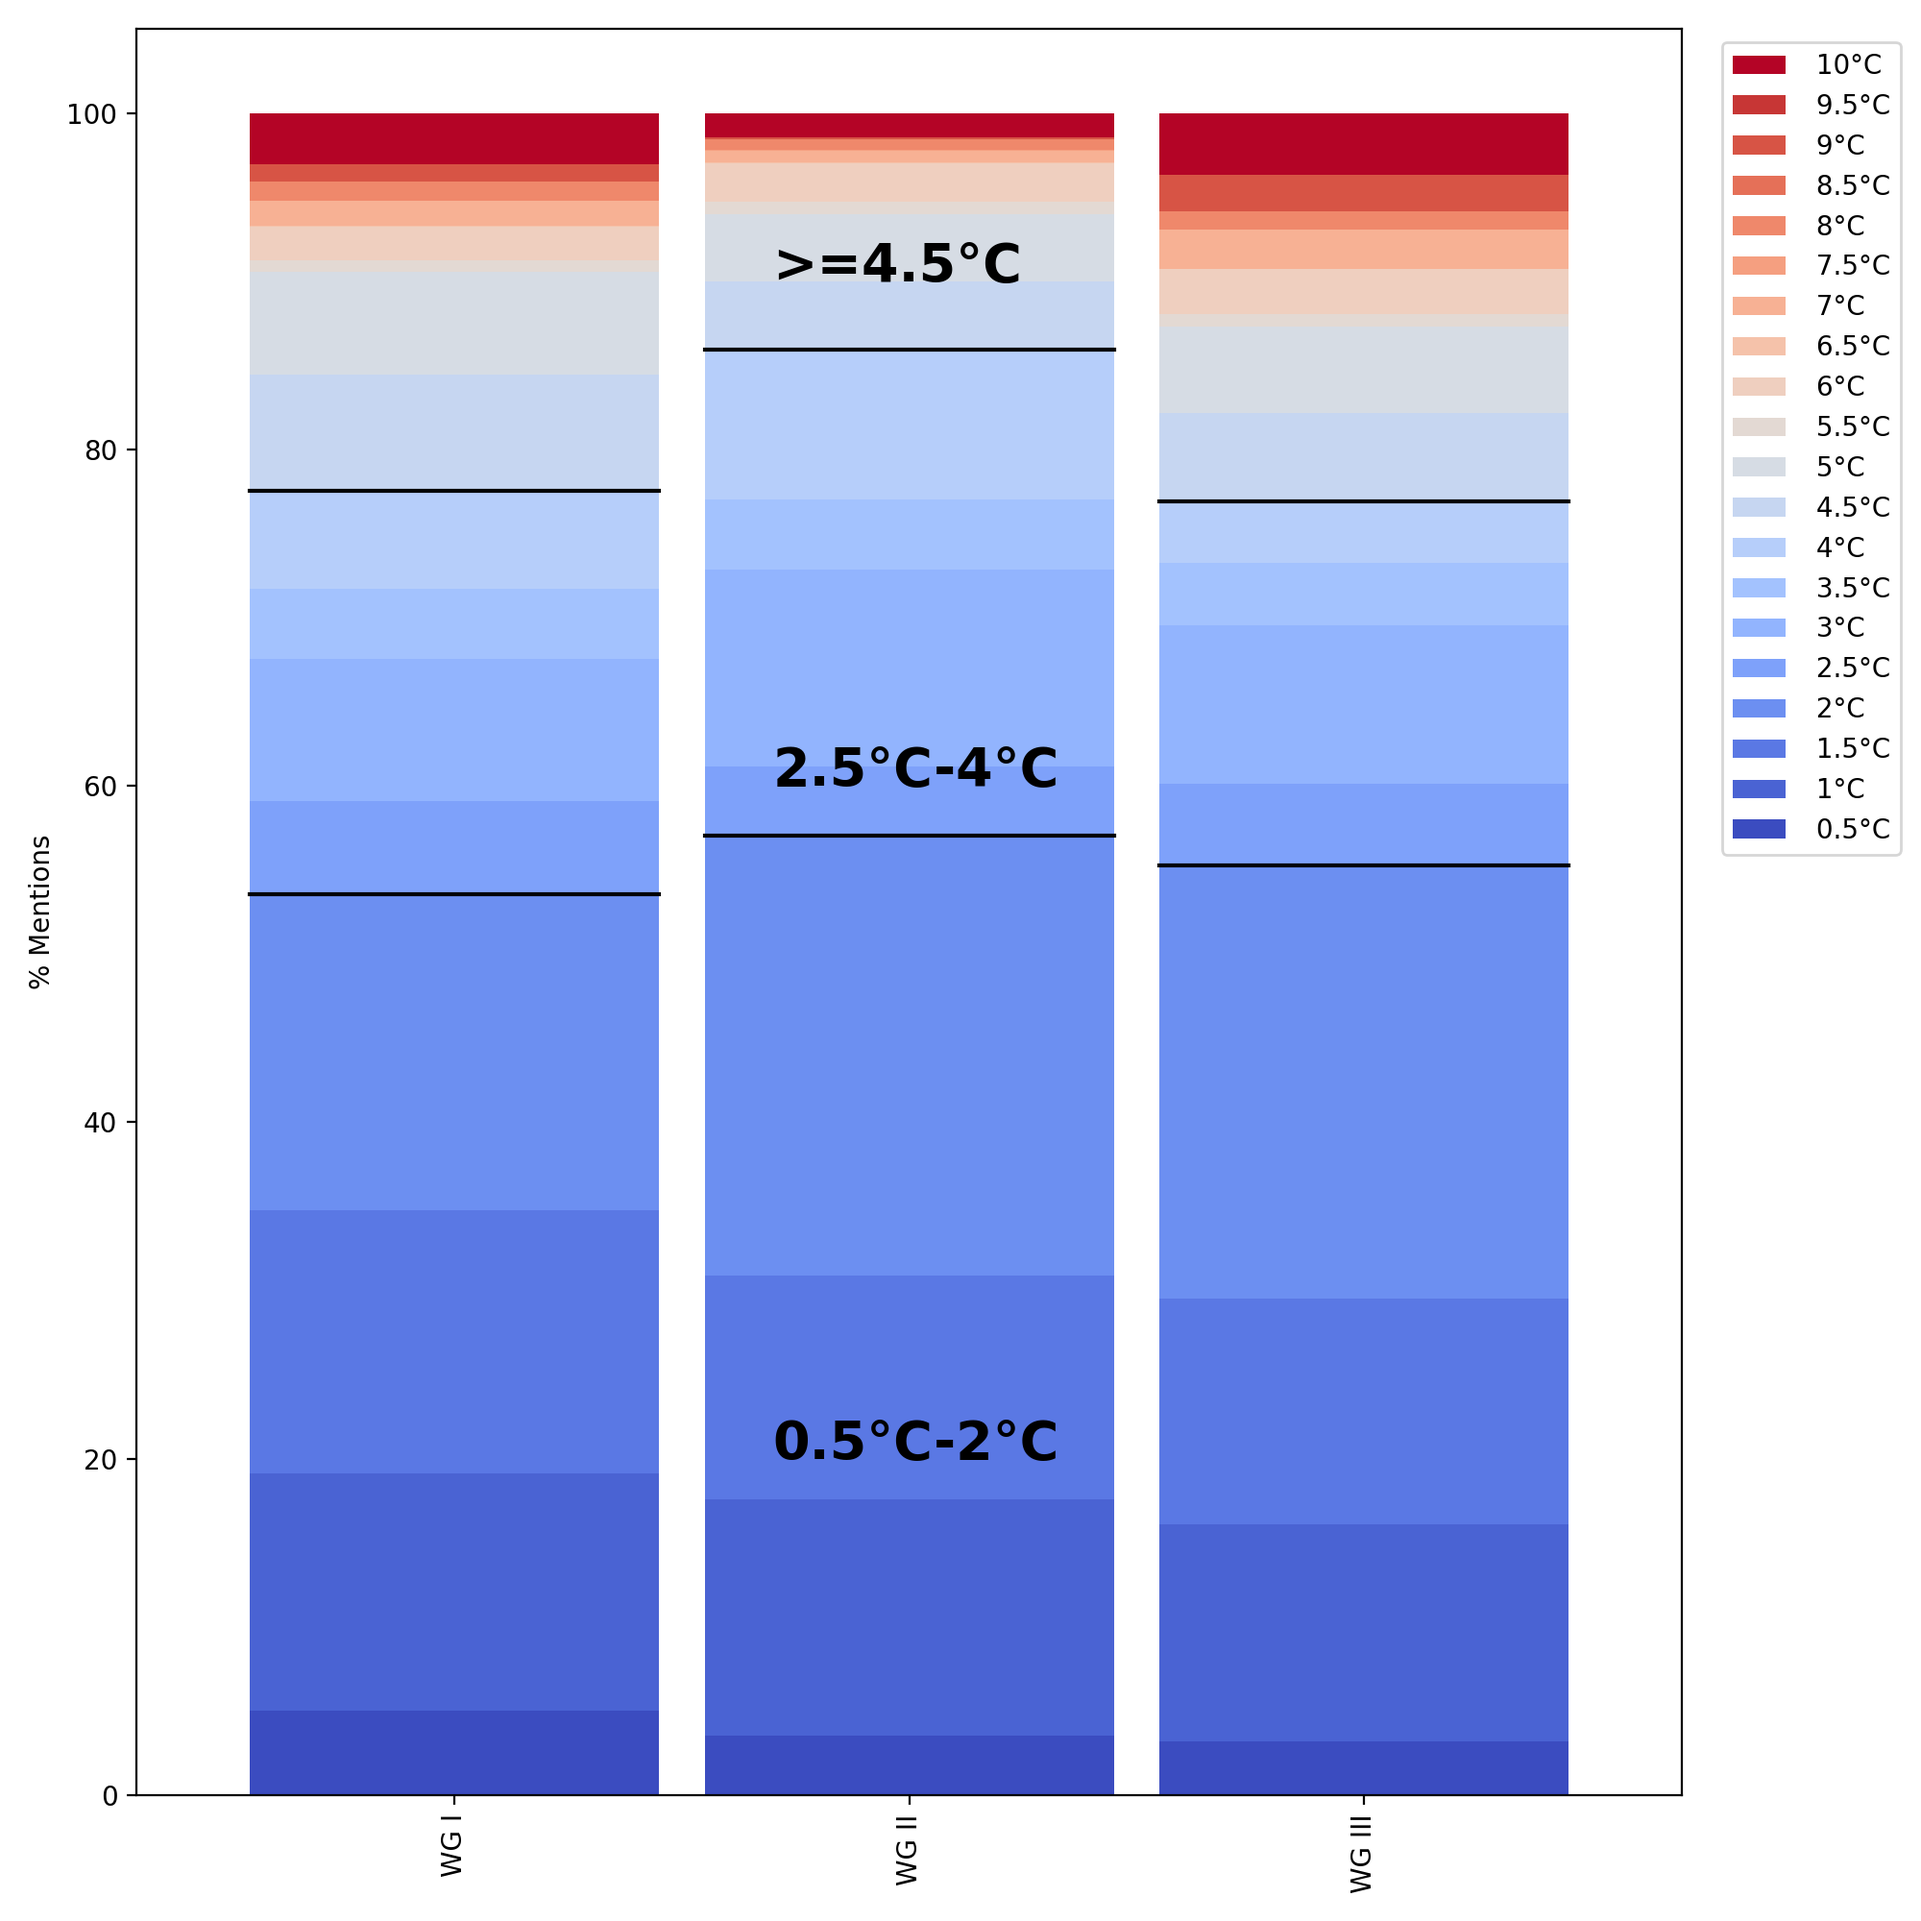
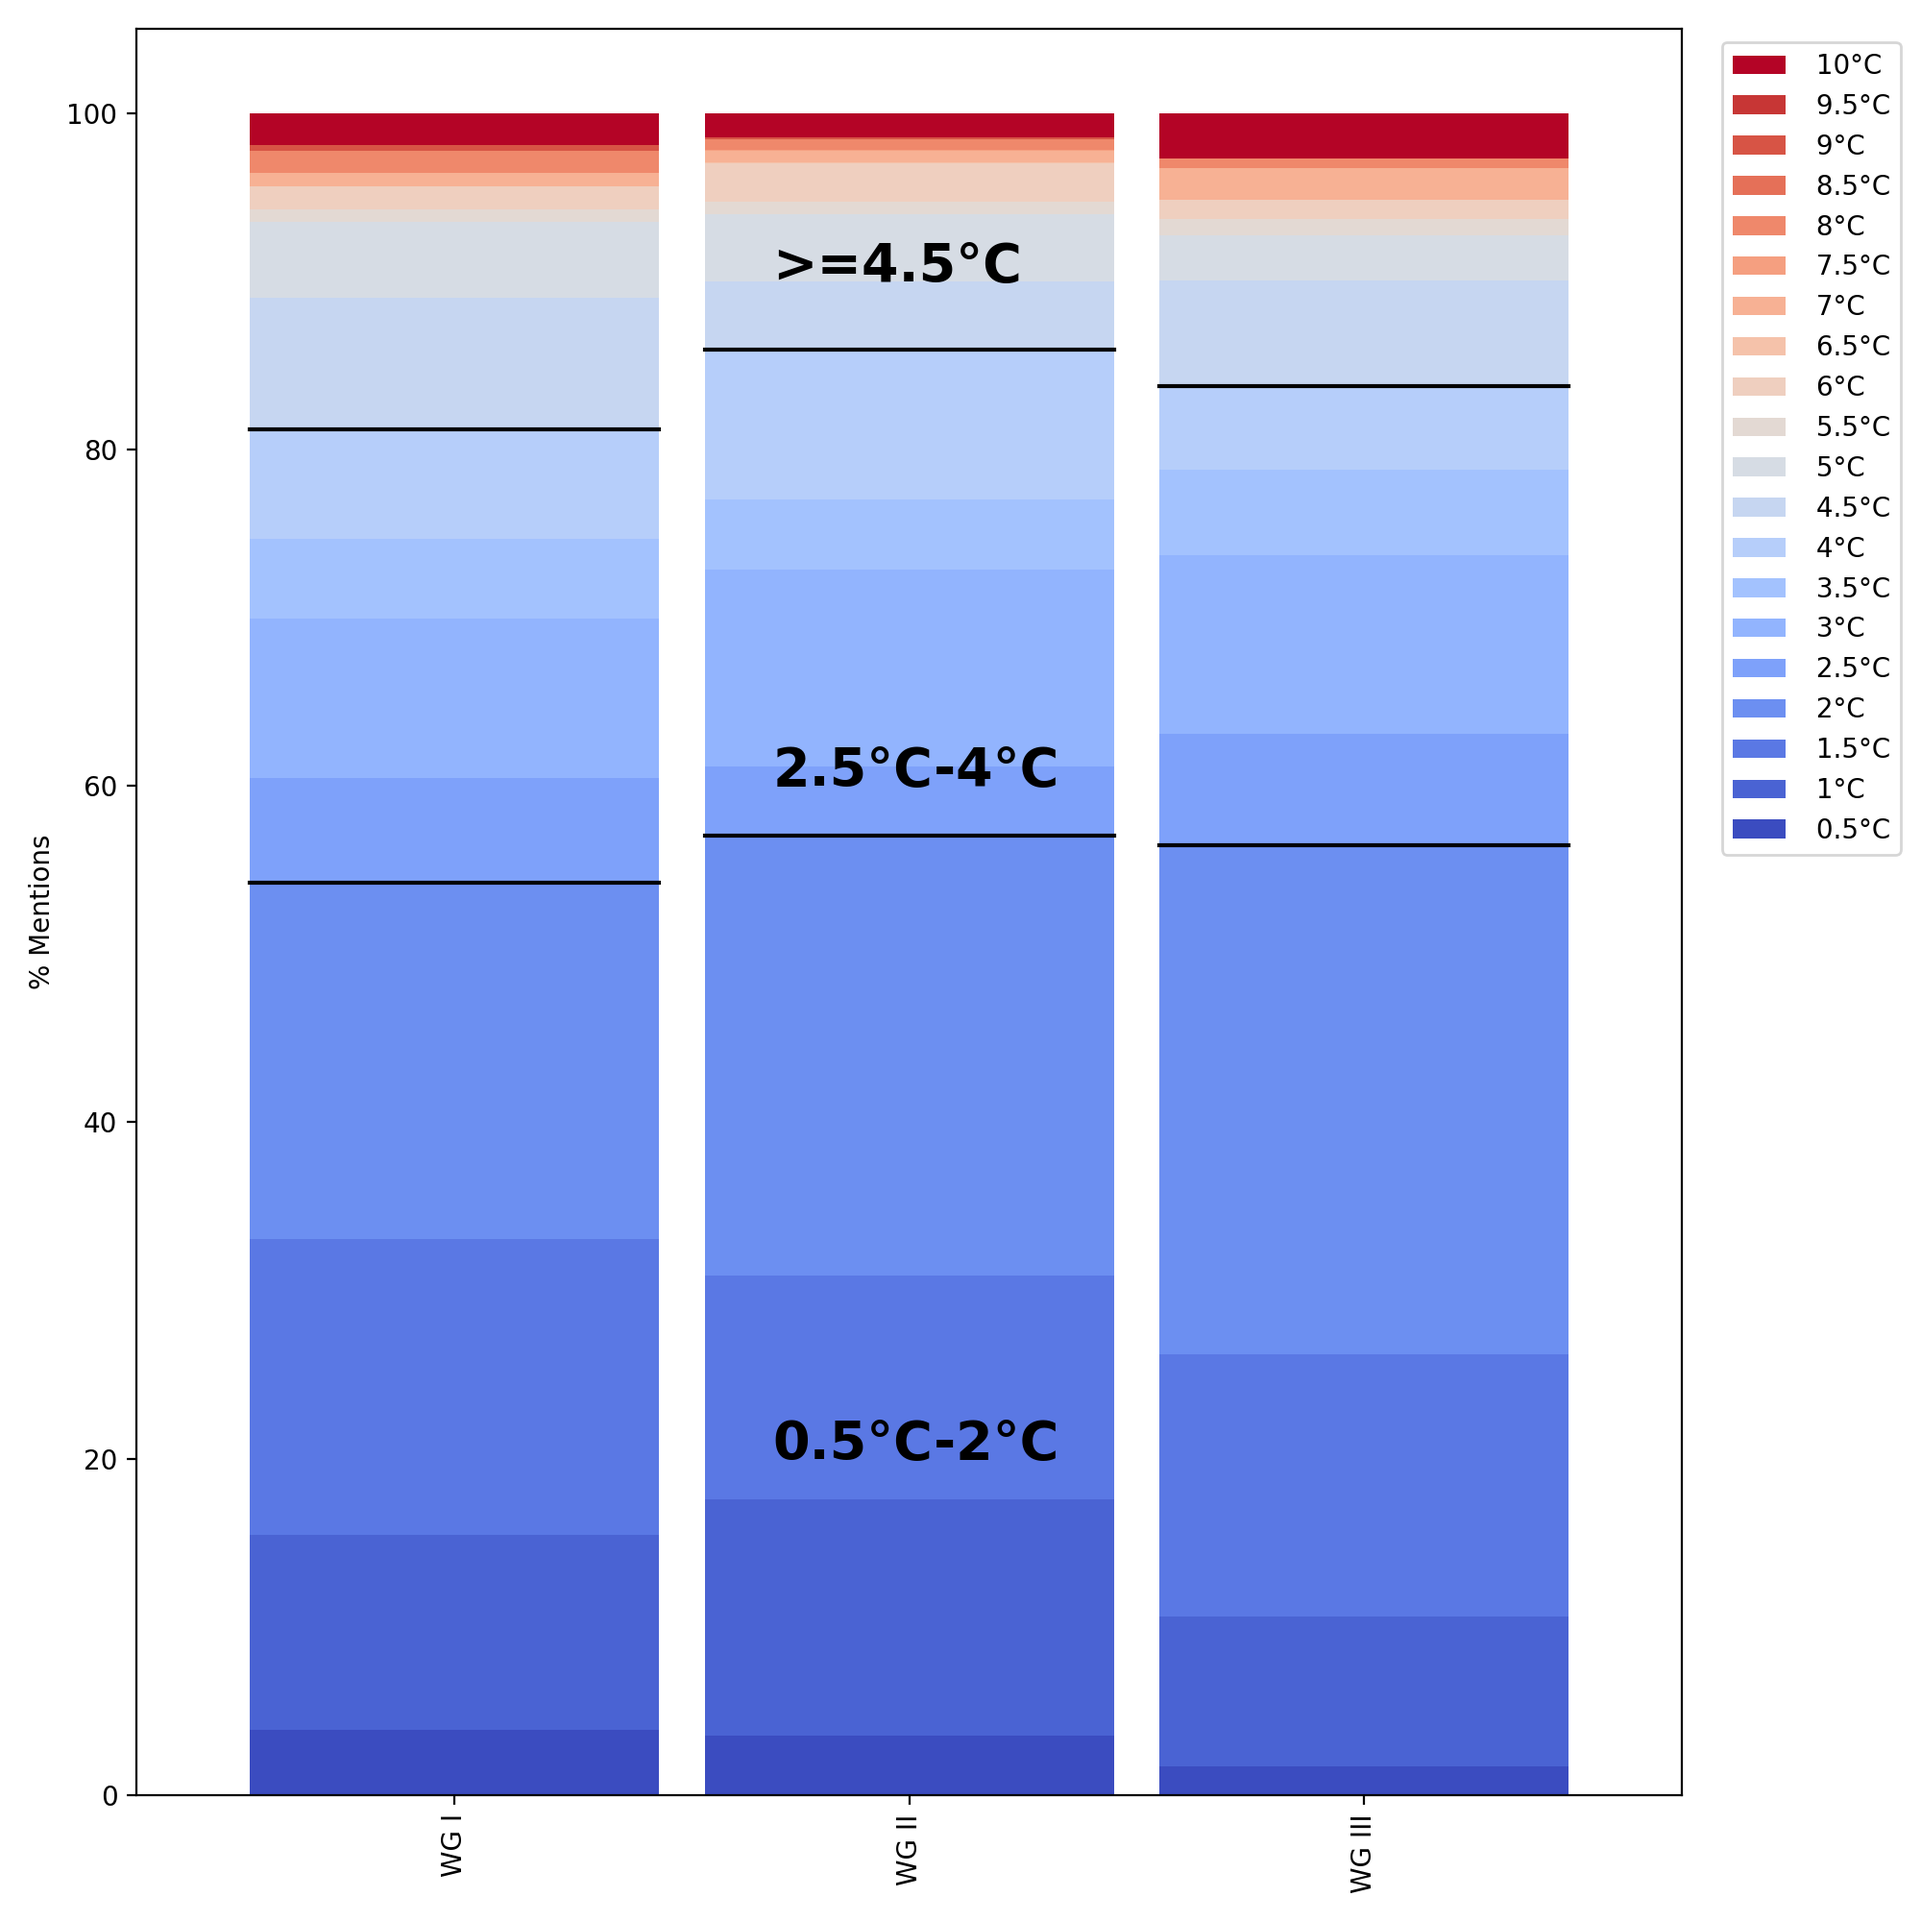
Started playing around with word clouds
"all_reports.csv" is too large for repo

Changed region(s): [[0.589, 0.062, 0.837, 0.31], [0.124, 0.062, 0.341, 0.155], [0.62, 0.434, 0.806, 0.465]]

diff --git a/read_prepare_data.py b/read_prepare_data.py
@@ -100,3 +100,18 @@ def create_temp_keys():
              temps.append(" "+str(temp)+"°C" )
     return temps
 
+
+def combine_all_raw_strings():
+    """combines all raw strings into one big file to search through"""
+    df = pd.DataFrame()
+    reports = [file for file in os.listdir(os.getcwd() + os.sep + "Raw IPCC Strings") if file[-4:] == ".csv" ]
+    for report in reports:
+        print("Starting with " + report) 
+        report_df = pd.read_csv(os.getcwd() + os.sep + "Raw IPCC Strings" + os.sep + report)
+        df = pd.concat([df, report_df])
+    df.to_csv("Raw IPCC Strings" + os.sep + "all_reports.csv")    
+    
+    
+
+if __name__ == "__main__":
+    combine_all_raw_strings()

diff --git a/figure_1.py b/figure_1.py
@@ -144,7 +144,8 @@ def plot_all_temp_by_report_type(ipcc_counts, meta):
     
 if __name__ == "__main__":
     # Define basic stuff
-    min_temp_found = 5
+    # exclude reports with only few temperature mentions, as they distort the picture
+    min_temp_found = 10
     
     # get the data    
     ipcc_counts = rp_da.read_ipcc_counts()
@@ -157,7 +158,7 @@ if __name__ == "__main__":
     ipcc_counts = ipcc_counts[ipcc_counts.sum(axis=1)>min_temp_found]
     
     # Plot    
-   # plot_all_temp_by_ar(ipcc_counts, meta)
+    plot_all_temp_by_ar(ipcc_counts, meta)
     plot_all_temp_by_wg(ipcc_counts, meta)
 
     plot_all_temp_by_report_type(ipcc_counts, meta)

diff --git a/word_counts.py b/word_counts.py
@@ -1,0 +1,20 @@
+# -*- coding: utf-8 -*-
+"""
+Created on Mon Sep 20 13:47:40 2021
+
+@author: Florian Jehn
+"""
+import os
+import pandas as pd
+from wordcloud import WordCloud, STOPWORDS, ImageColorGenerator
+import matplotlib.pyplot as plt
+
+df =  pd.read_csv("Raw IPCC Strings" + os.sep + "all_reports.csv")
+df["merged"] = df[df.columns[1:]].apply(lambda x: ','.join(x.dropna().astype(str)),axis=1)
+df = df["merged"]
+text = df.str.cat(sep=" ")
+wordcloud = WordCloud().generate(text)
+
+plt.imshow(wordcloud, interpolation="bilinear")
+plt.savefig("Figures" + os.sep + "word_cloud.png",dpi=300)
+plt.show()
